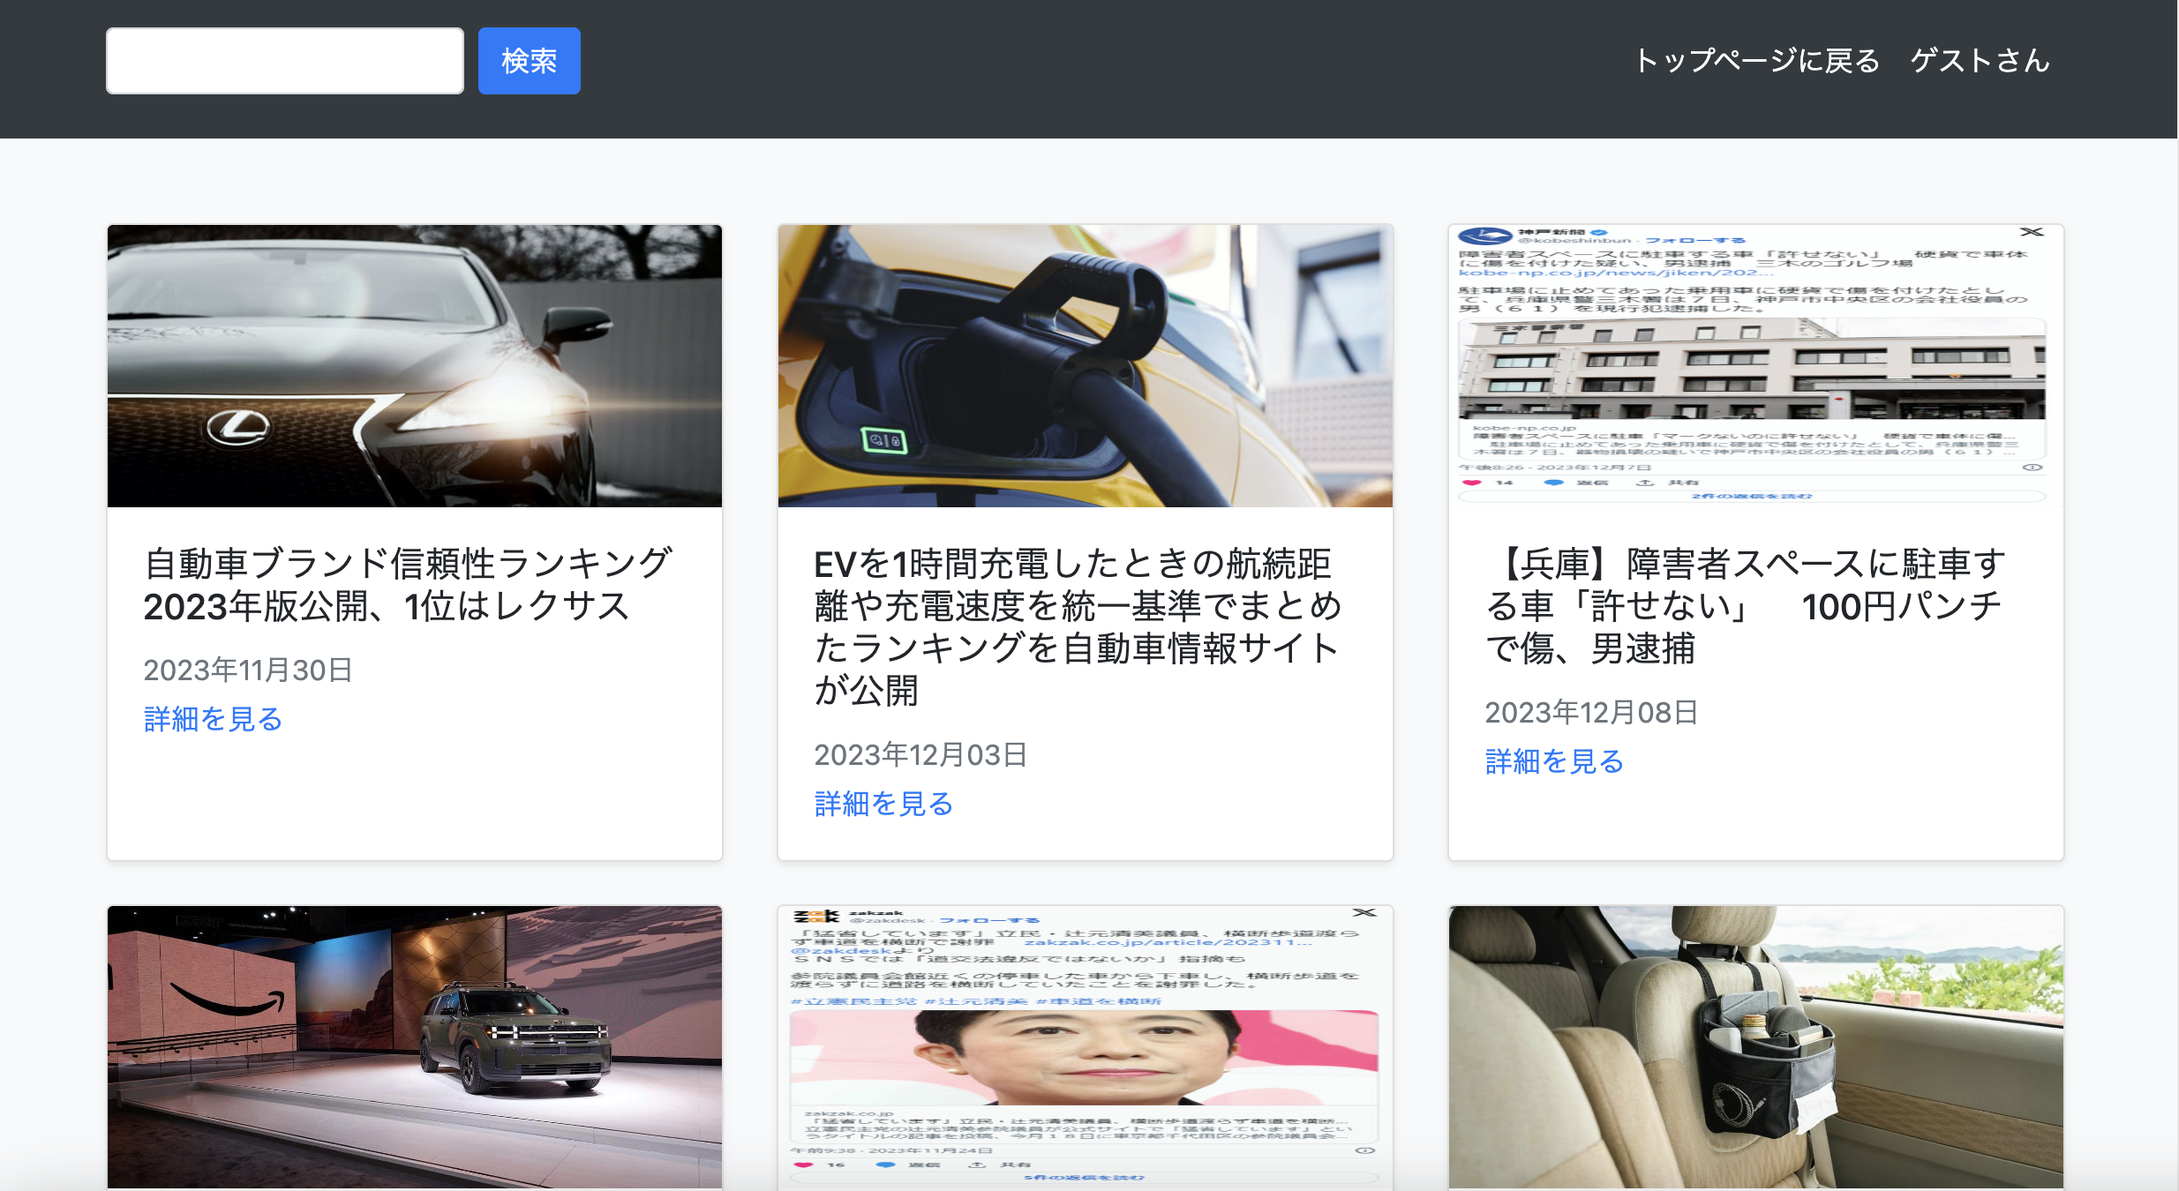
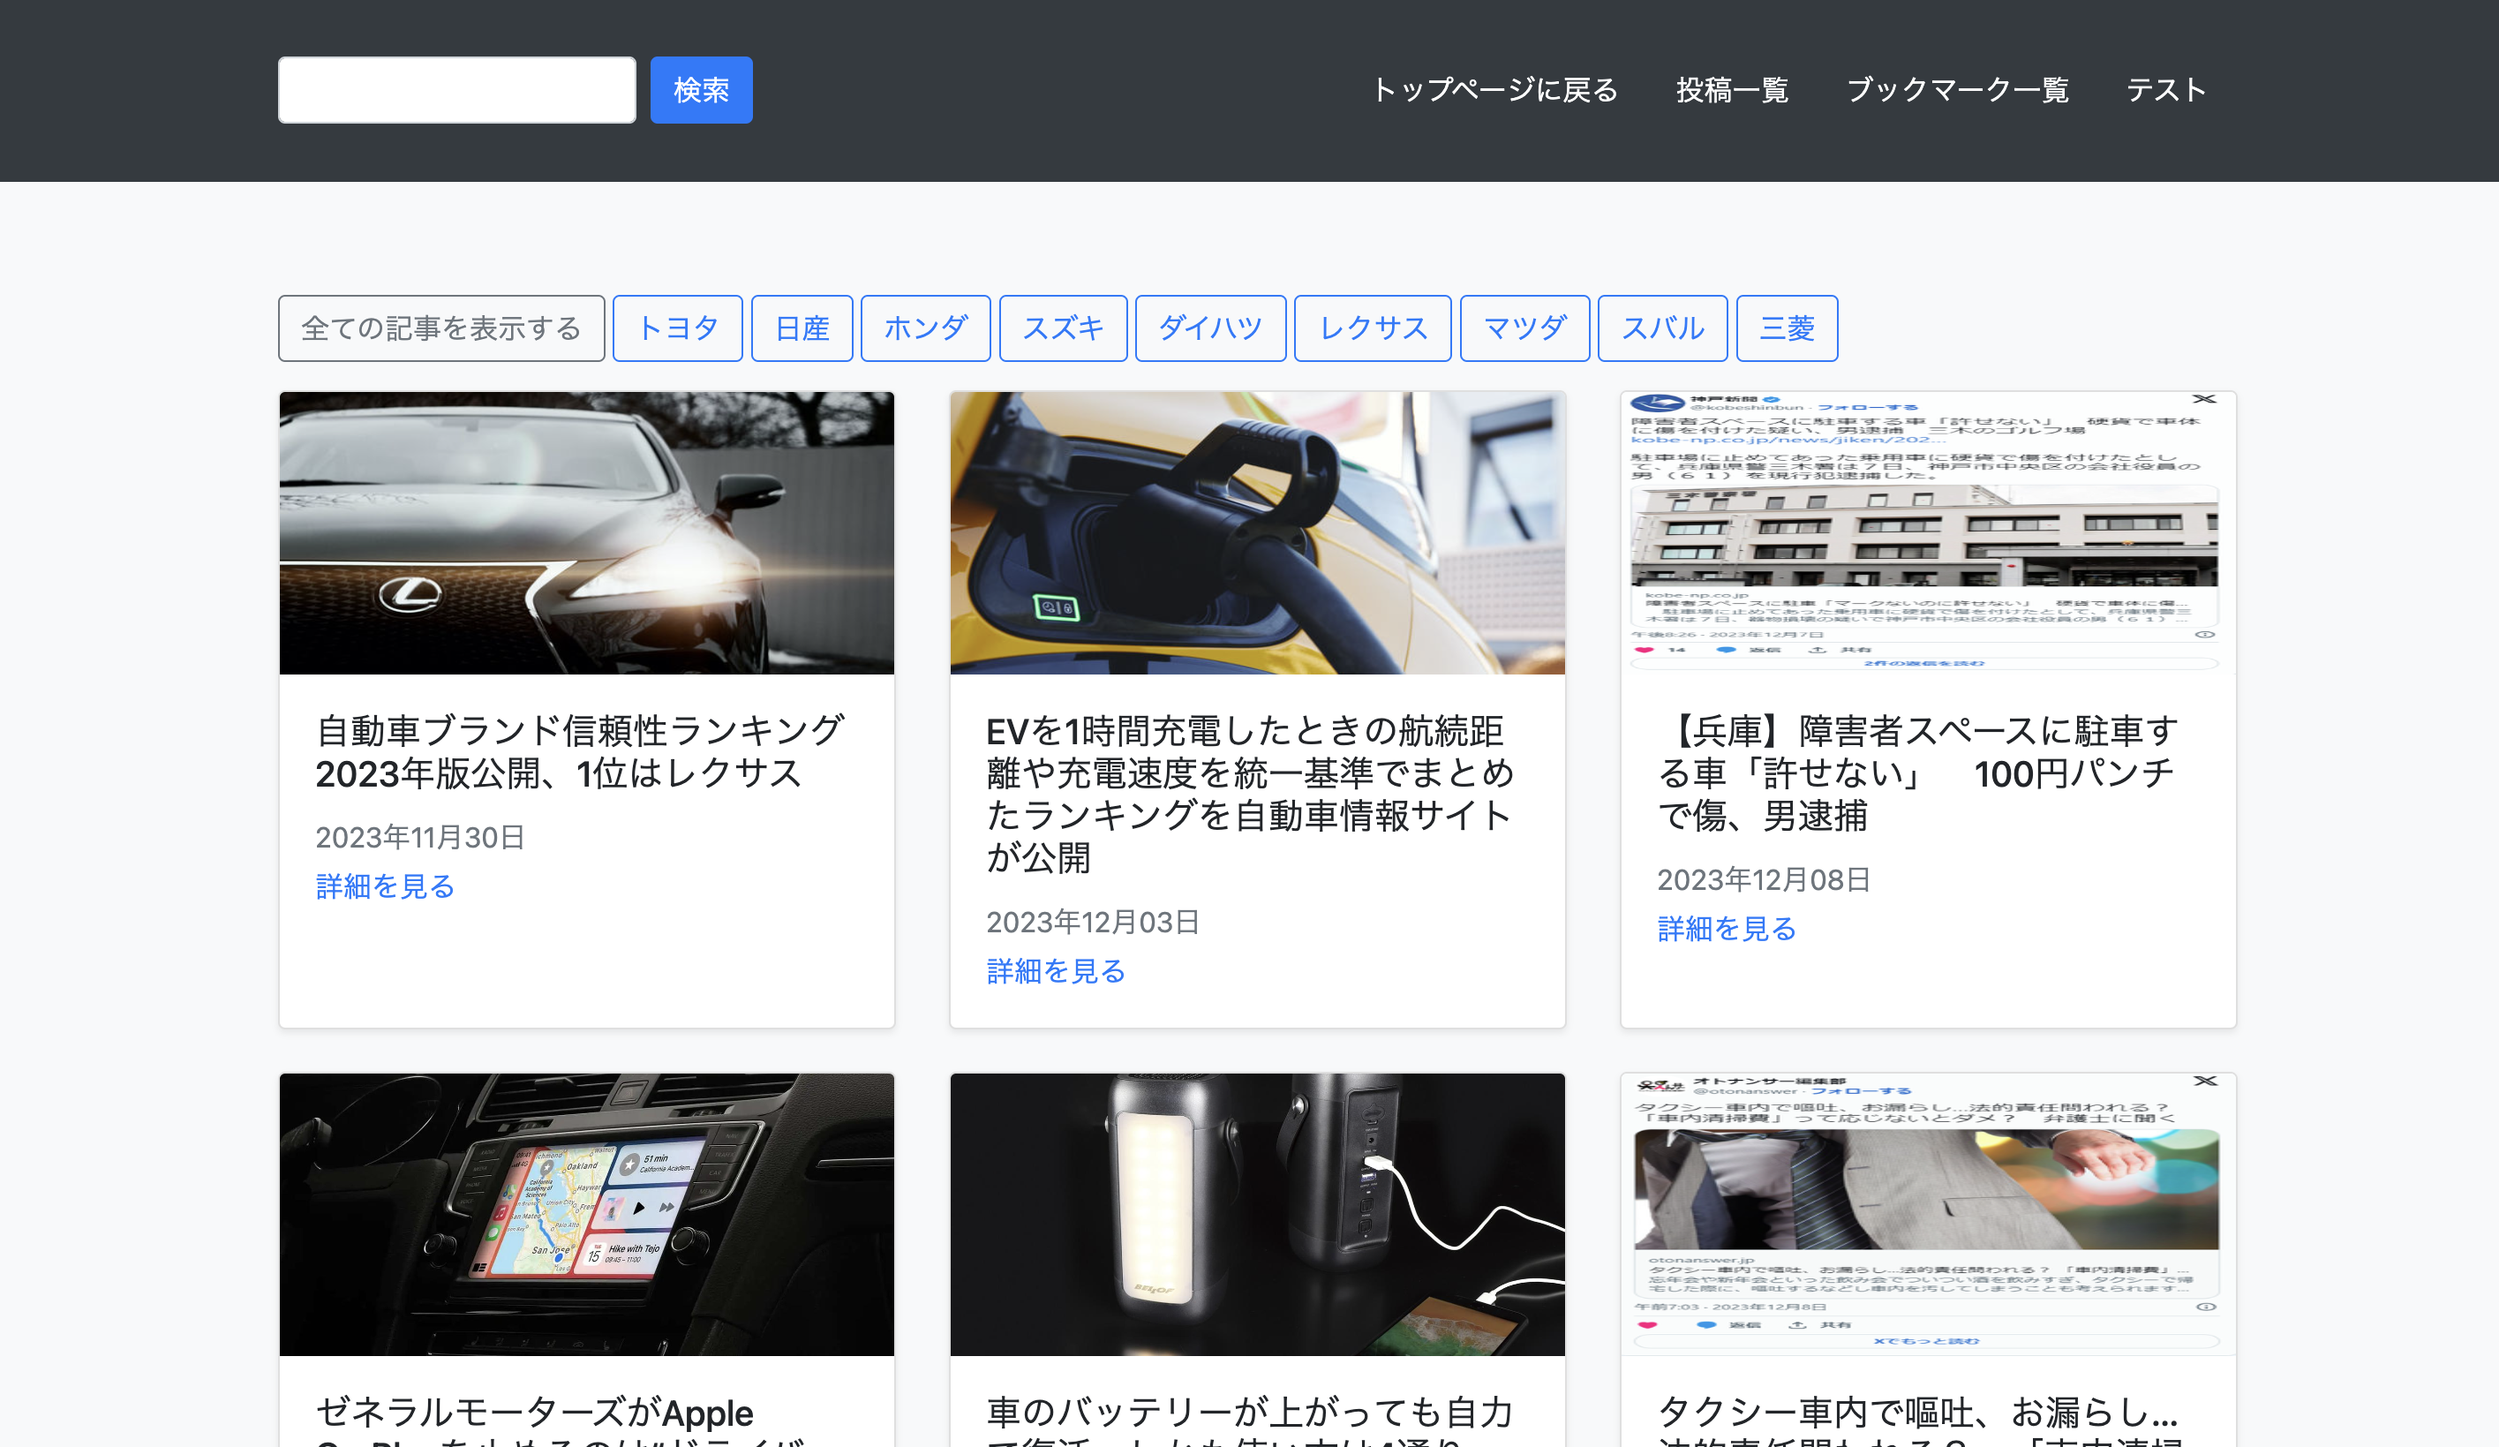
Add:コメント機能、ブックマーク機能の記述

diff --git a/README.md b/README.md
@@ -4,7 +4,14 @@
 https://carinfomation-1188e7c8a511.herokuapp.com/
 # サービス概要
 車の情報収集にフォーカスしたアプリになります。
-# 機能紹介
+# 機能一覧
+・新規登録機能
+・ログイン、ログアウト機能
+・ゲストログイン機能
+・ブックマーク機能
+・コメント機能
+・記事の検索機能
+# 機能詳細
 | トップ画面 | 各ランキング |
 | ---- | ---- |
 | ![トップ画面](public/images/top_info.png) | ![トップ画面](public/images/topmenu.png) |
@@ -12,34 +19,43 @@ https://carinfomation-1188e7c8a511.herokuapp.com/
 
 | ユーザーキーワード機能(ログインあり) | ユーザーキーワード設定画面（１） |
 | ---- | ---- |
-| ![トップ画面](public/images/userword1.png) | ![トップ画面](public/images/userword2.png) |
+| ![ユーザーキーワード](public/images/userword1.png) | ![ユーザーキーワード](public/images/userword2.png) |
 | ログインするとトップ画面にユーザーキーワードを設定する表示が出てきます。これは設定したキーワードに応じた最新の記事をトップ画面に表示させることができる機能になります。「設定はこちら」のボタンを押してみましょう。 | ボタンを押すと設定画面に遷移します。キーワードに適当な文字を入れ、「追加する」のボタンを押すとキーワードが保存されます。 |
 
 | ユーザーキーワード設定画面（２）| ユーザーキーワード設定画面（３） |
 | ---- | ---- |
-| ![トップ画面](public/images/userword3.png) | ![トップ画面](public/images/userword4.png) |
+| ![ユーザーキーワード](public/images/userword3.png) | ![ユーザーキーワード](public/images/userword4.png) |
 | 今回は「ドライブレコーダー」と入力してみます。「追加する」ボタンを押すと・・ | キーワードが保存され、画面上部にメッセージが出てきました。言葉に従い、トップページに戻ってみます。また、キーワードは3つまで追加できます。 |
 
 | ユーザーキーワード設定画面（４）| ユーザーキーワードの削除（１） |
 | ---- | ---- |
-| ![トップ画面](public/images/userword5.png) | ![トップ画面](public/images/deleteword.png) |
+| ![ユーザーキーワード](public/images/userword5.png) | ![ユーザーキーワード](public/images/deleteword.png) |
 | トップ画面にユーザーキーワードに基づいた記事としてドライブレコーダーに関連のある記事が表示されました。このようにあらかじめ自分の興味のある事柄を設定しておくことで、アプリを開いた時に素早く自分の求める情報を手にいれることができます。記事は6つまで表示させることができます。ユーザーキーワードを削除する際は、「現在の設定を確認・編集する」ボタンを押します。 | 保存されたキーワード」の下に現在設定されているキーワードが出てきます。「削除」を押します。  |
 
 | ユーザーキーワードの削除（２）|
 | ---- | 
-| ![トップ画面](public/images/deleteword2.png) | 
+| ![ユーザーキーワード](public/images/deleteword2.png) | 
 | キーワードが削除されました。 | 
 
 | 記事一覧画面 | コメント&ブックマーク(ログインあり) |
 | ---- | ---- |
-| ![トップ画面](public/images/article_index.png) | ![トップ画面](public/images/aticle_show.png) |
-| 現在取得された記事の一覧が表示されます。左上の検索を使用することで、入力されたキーワードに沿った記事を抽出して表示することができます。「詳細はこちら」をクリックすると記事の詳細画面に遷移します。 | 記事の詳細画面にて、ブックマーク登録、記事へのコメントを残すことができます。「元の記事を読む」ボタンを押すと、元記事のURLに遷移することができます。 |
+| ![記事一覧](public/images/article_index.png) | ![記事詳細](public/images/article_show.png) |
+| 現在取得された記事の一覧が表示されます。左上の検索を使用することで、入力されたキーワードに沿った記事を抽出して表示することができます。また、メーカーごとにボタンが用意されており、各種クリックすることでメーカーに関連のある記事を絞り込むことができます。「詳細はこちら」をクリックすると記事の詳細画面に遷移します。 | 記事の詳細画面にて、ブックマーク登録、記事へのコメントを残すことができます。「元の記事を読む」ボタンを押すと、元記事のURLに遷移することができます。 |
 
-| 記事一覧画面 |  |
+| コメントの管理(ログインあり) | コメントの管理(２) |
 | ---- | ---- |
-| ![トップ画面](public/images/article_index.png) | ![トップ画面](public/images/aticle_show.png) |
-| |  |
+| ![コメント機能](public/images/comment1.png) | ![コメント機能](public/images/hedder.png) |
+| 投稿したコメントは記事の下に表示されます。 | コメントを削除したい時や、今までのコメントを見返したい際はヘッダーの「投稿一覧」をクリックしてください。 |
 
+| コメントの管理(３) |
+| ---- | 
+| ![コメント機能](public/images/comment2.png) | 
+| ここではこれまでにコメントした全てが表示されます。「削除」を押すことでコメントを削除することができます。 |
+
+| ブックマークの管理(ログインあり) | ブックマークの管理(２) |
+| ---- | ---- | 
+| ![ブックマーク機能](public/images/header.png) | ![ブックマーク機能](public/images/bookmark.png)  |
+| 記事詳細画面でブックマーク登録をすると、ヘッダーのブックマーク一覧で記事を見返すことができるようになります。「ブックマーク一覧」をクリックします。 | クリックするとこれまでにブックマークした記事が表示されます。「ブックマーク解除」をクリックすることでブックマークを削除できます。 |
 
 # 使用技術について
 ・Ruby on Rails 7.0.8
